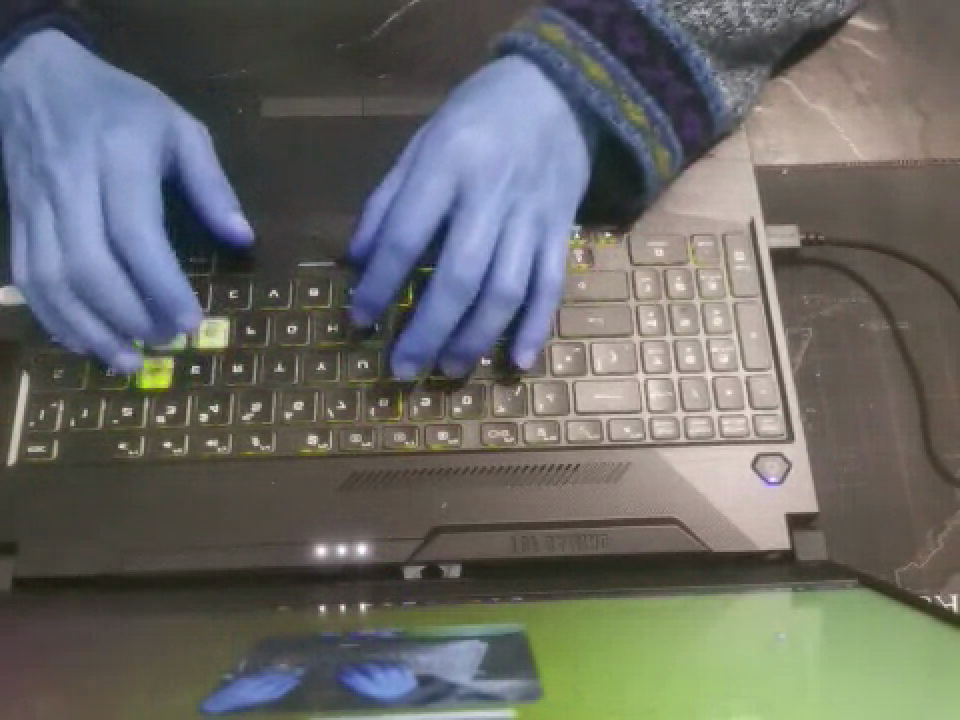
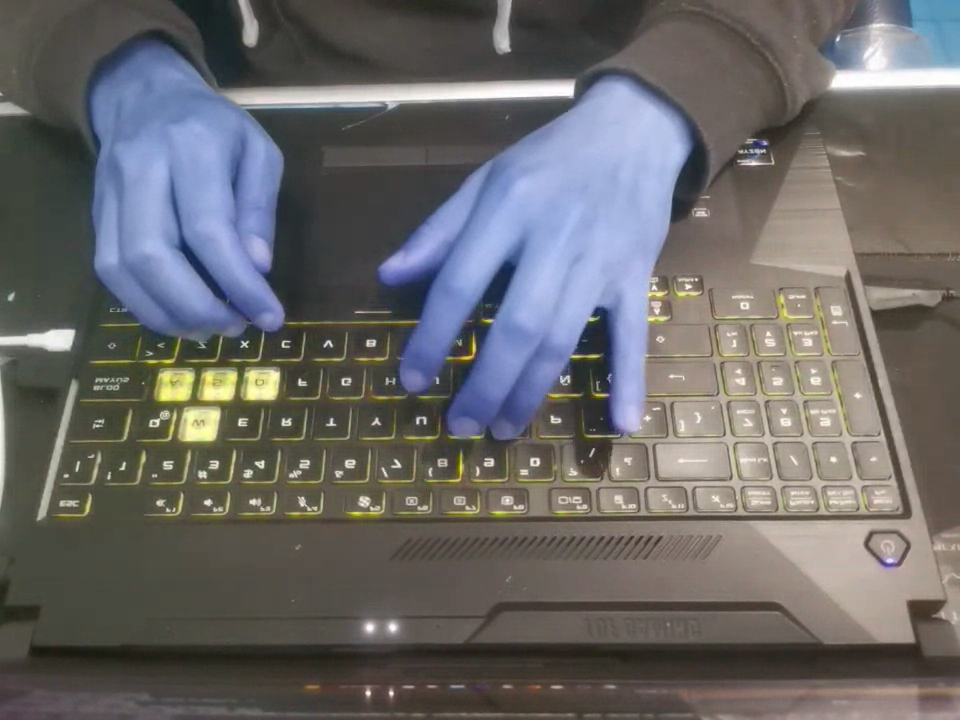
Se añadieron imagenes de las manos

diff --git a/static/js/index.js b/static/js/index.js
@@ -10,6 +10,7 @@ const typingText = document.querySelector(".typing-text p"),
   wpmTag = document.querySelector(".wpm span"),
   cpmTag = document.querySelector(".cpm span");
 
+
 let timer,
   maxTime = 600,
   timeLeft = maxTime,
@@ -26,6 +27,7 @@ var dc = null;
 
 var esc = false;
 var indice = 0;
+
 function gotDevices(deviceInfos) {
   // Handles being called several times to update labels. Preserve values.
   const values = selectors.map(select => select.value);
@@ -133,6 +135,8 @@ function start() {
   };
   dc.onmessage = function (evt) {
     if (evt.data) {
+      cf = typingText.querySelectorAll("span")[charIndex + 1].innerText;
+      showFinger(cf);
       playSound('sound-key');
       initTyping(evt.data);
     };
@@ -212,6 +216,34 @@ function loadParagraph() {
   typingText.querySelectorAll("span")[0].classList.add("active");
   document.addEventListener("keydown", sendNormalChar);
   typingText.addEventListener("click", () => inpField.focus());
+  const cf = typingText.querySelectorAll("span")[charIndex].innerText;
+  showFinger(cf);
+
+}
+
+function showFinger(cf) {
+  document.getElementById("ii").src = "../img/manos/1.png";
+  document.getElementById("id").src = "../img/manos/2.png";
+  if (cf == ' ') {
+    document.getElementById("ii").src = "../img/manos/1p.png";
+    document.getElementById("id").src = "../img/manos/2p.png";
+  } else if (cf == '1' || cf == 'q' || cf == 'z' || cf == 'a') {
+    document.getElementById("ii").src = "../img/manos/1m.png";
+  } else if (cf == '2' || cf == 'x' || cf == 'w' || cf == 's') {
+    document.getElementById("ii").src = "../img/manos/1a.png";
+  } else if (cf == '3' || cf == 'c' || cf == 'd' || cf == 'e') {
+    document.getElementById("ii").src = "../img/manos/1med.png";
+  } else if (cf == '5' || cf == '4' || cf == 'v' || cf == 'b' || cf == 'g' || cf == 't' || cf == 'r' || cf == 'f') {
+    document.getElementById("ii").src = "../img/manos/1i.png";
+  } else if (cf == '0' || cf == 'ñ' || cf == 'p') {
+    document.getElementById("id").src = "../img/manos/2m.png";
+  } else if (cf == '9' || cf == '.' || cf == 'l' || cf == 'o') {
+    document.getElementById("id").src = "../img/manos/2a.png";
+  } else if (cf == '8' || cf == ',' || cf == 'k' || cf == 'i') {
+    document.getElementById("id").src = "../img/manos/2med.png";
+  } else {
+    document.getElementById("id").src = "../img/manos/2i.png";
+  }
 }
 
 function sendNormalChar(event) {

diff --git a/templates/index.html b/templates/index.html
@@ -68,6 +68,10 @@
       </div>
     </div>
   </div>
+  <div class="hands">
+    <img id="ii" src="{{ url_for('img', path='/manos/1.png') }}" width="80" alt="LOGO">
+    <img id="id" src="{{ url_for('img', path='/manos/2.png') }}" width="80" alt="LOGO2">
+  </div>
   <div id="container">
     <div class="select">
       <label for="videoSource">Video source: </label><select id="videoSource"></select>

diff --git a/static/js/paragraph.js b/static/js/paragraph.js
@@ -1,3 +1,5 @@
 const paragraphs = [
     "fijate que ponzoña de whisky, exclamaba grave. ",
+    "Bebo whisky porque extraño mi loca juventud fugaz",
+    "El veloz murciélago hindu comia feliz cardillo y kiwi. La cigueña tocaba el saxofon detras del palenque de paja"
 ];

diff --git a/static/css/style.css b/static/css/style.css
@@ -26,6 +26,11 @@ video {
   border-radius: 30px;
 }
 
+.hands {
+  display: flex;
+  justify-content: center;
+}
+
 .navbar {
   font-size: 20px;
   background-color: rgba(0, 0, 0, 0.349);

diff --git a/main.py b/main.py
@@ -125,7 +125,6 @@ class VideoTransformTrack(MediaStreamTrack):
                     if abs(hand_landmarks.landmark[dis[mano][data]].x - self.coords[data][0]) < 0.025 and abs(hand_landmarks.landmark[dis[mano][data]].y - self.coords[data][1]) < 0.025:
                         return True
                     else:
-                        cv2.imwrite('c1.png', frame)
                         return False
         else:
             print("error")
